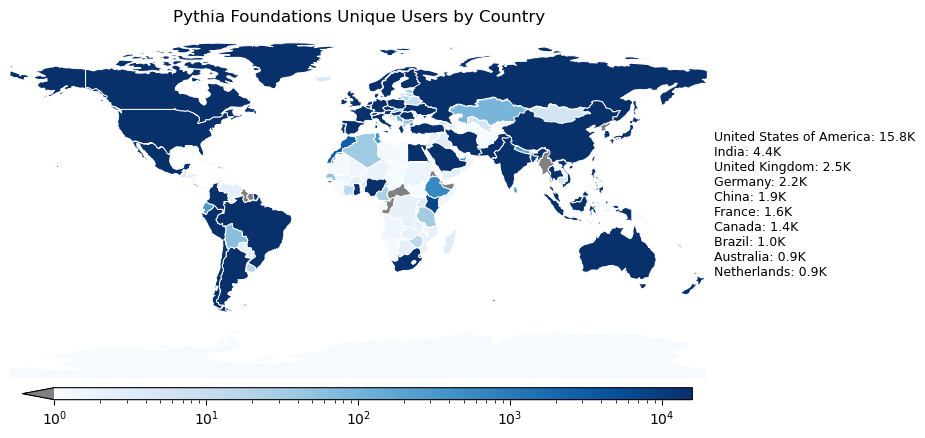
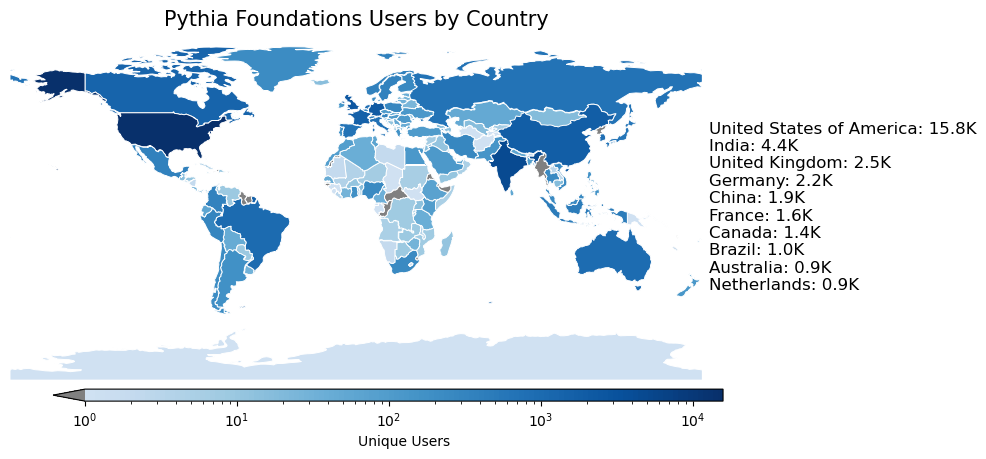
add 3rd plot type and edit fontsizes etc

diff --git a/.github/workflows/get-metrics.py b/.github/workflows/get-metrics.py
@@ -1,8 +1,9 @@
+import datetime
 import json
-import math
 import os
 
 import cartopy
+import matplotlib
 import matplotlib.cm as cm
 import matplotlib.colors as colors
 import matplotlib.pyplot as plt
@@ -56,11 +57,53 @@ def _run_total_users_report(property_id):
 
 def get_total_users(PORTAL_ID, FOUNDATIONS_ID, COOKBOOKS_ID):
     metrics_dict = {}
+    metrics_dict['Now'] = str(datetime.datetime.now())
     metrics_dict['Portal'] = _run_total_users_report(PORTAL_ID)
     metrics_dict['Foundations'] = _run_total_users_report(FOUNDATIONS_ID)
     metrics_dict['Cookbooks'] = _run_total_users_report(COOKBOOKS_ID)
     with open('portal/metrics/user_metrics.json', 'w') as outfile:
         json.dump(metrics_dict, outfile)
+
+
+def _run_active_users_this_year(property_id):
+    current_year = datetime.datetime.now().year
+    start_date = f'{current_year}-01-01'
+
+    request = RunReportRequest(
+        property=f'properties/{property_id}',
+        dimensions=[Dimension(name='date')],
+        metrics=[Metric(name='activeUsers')],
+        date_ranges=[DateRange(start_date=start_date, end_date='today')],
+    )
+    response = client.run_report(request)
+
+    dates = []
+    user_counts = []
+    for row in response.rows:
+        date_str = row.dimension_values[0].value
+        date = datetime.datetime.strptime(date_str, '%Y%m%d')
+        dates.append(date)
+        user_counts.append(int(row.metric_values[0].value))
+
+    return zip(*sorted(zip(dates, user_counts), key=lambda x: x[0]))
+
+
+def plot_projects_this_year(PORTAL_ID, FOUNDATIONS_ID, COOKBOOKS_ID):
+    portal_dates, portal_users = _run_active_users_this_year(PORTAL_ID)
+    foundations_dates, foundations_users = _run_active_users_this_year(FOUNDATIONS_ID)
+    cookbooks_dates, cookbooks_users = _run_active_users_this_year(COOKBOOKS_ID)
+
+    plt.figure(figsize=(10, 5.5))
+    plt.title('Year-to-Date Pythia Active Users', fontsize=15)
+
+    plt.plot(portal_dates, portal_users, color='purple', label='Portal')
+    plt.plot(foundations_dates, foundations_users, color='royalblue', label='Foundations')
+    plt.plot(cookbooks_dates, cookbooks_users, color='indianred', label='Cookbooks')
+
+    plt.legend(fontsize=12, loc='upper right')
+
+    plt.xlabel('Date', fontsize=12)
+    plt.savefig('portal/metrics/thisyear.png', bbox_inches='tight')
 
 
 def _run_top_pages_report(property_id):
@@ -72,52 +115,32 @@ def _run_top_pages_report(property_id):
     )
     response = client.run_report(request)
 
-    page_views = {}
+    views_dict = {}
     for row in response.rows:
         page = row.dimension_values[0].value
         views = int(row.metric_values[0].value)
-        page_views[page] = views
+        views_dict[page] = views
 
-    top_10_pages = sorted(page_views.items(), key=lambda item: item[1], reverse=True)[:10]
-    return {page: views for page, views in top_10_pages}
+    top_pages = sorted(views_dict.items(), key=lambda item: item[1], reverse=True)[:5]
+    pages = [page.split('—')[0] for page, _ in top_pages]
+    views = [views for _, views in top_pages]
+
+    return pages[::-1], views[::-1]
 
 
-def plot_top_pages(portal_id, foundations_id, cookbooks_id):
-    portal_page_views = _run_top_pages_report(portal_id)
-    portal_pages = []
-    portal_sorted = {k: v for k, v in sorted(portal_page_views.items(), key=lambda item: item[1])}
-    portal_views = portal_sorted.values()
-    for key in portal_sorted:
-        newkey = key.split('—')[0]
-        portal_pages.append(newkey)
-
-    foundations_page_views = _run_top_pages_report(foundations_id)
-    foundations_pages = []
-    foundations_sorted = {k: v for k, v in sorted(foundations_page_views.items(), key=lambda item: item[1])}
-    foundations_views = foundations_sorted.values()
-    for key in foundations_sorted:
-        newkey = key.split('—')[0]
-        foundations_pages.append(newkey)
-
-    cookbooks_page_views = _run_top_pages_report(cookbooks_id)
-    cookbooks_pages = []
-    cookbooks_sorted = {k: v for k, v in sorted(cookbooks_page_views.items(), key=lambda item: item[1])}
-    cookbooks_views = cookbooks_sorted.values()
-    for key in cookbooks_page_views:
-        newkey = key.split('—')[0]
-        cookbooks_pages.insert(0, newkey)
+def plot_top_pages(PORTAL_ID, FOUNDATIONS_ID, COOKBOOKS_ID):
+    portal_pages, portal_views = _run_top_pages_report(PORTAL_ID)
+    foundations_pages, foundations_views = _run_top_pages_report(FOUNDATIONS_ID)
+    cookbooks_pages, cookbooks_views = _run_top_pages_report(COOKBOOKS_ID)
 
     pages = cookbooks_pages + foundations_pages + portal_pages
 
-    fig, ax = plt.subplots(figsize=(10, 8))
-    plt.title('All-Time Top Pages')
+    fig, ax = plt.subplots(figsize=(10, 5.5))
+    plt.title('All-Time Top Pages', fontsize=15)
 
-    views_max = int(math.ceil(max(portal_views) / 10000.0)) * 10000
-    ax.set_xlim([0, views_max])
-
-    y = np.arange(10)
-    y2 = np.arange(11, 21)
-    y3 = np.arange(22, 32)
+    y = np.arange(5)
+    y2 = np.arange(6, 11)
+    y3 = np.arange(12, 17)
     y4 = np.append(y, y2)
     y4 = np.append(y4, y3)
 
@@ -125,19 +148,23 @@ def plot_top_pages(portal_id, foundations_id, cookbooks_id):
     bar2 = ax.barh(y2, foundations_views, align='center', label='Foundations', color='royalblue')
     bar3 = ax.barh(y, cookbooks_views, align='center', label='Cookbooks', color='indianred')
 
-    ax.set_yticks(y4, labels=pages)
+    ax.set_yticks(y4, labels=pages, fontsize=12)
 
-    ax.bar_label(bar1, fmt=_format_rounding)
-    ax.bar_label(bar2, fmt=_format_rounding)
-    ax.bar_label(bar3, fmt=_format_rounding)
+    ax.bar_label(bar1, fmt=_format_rounding, padding=5, fontsize=10)
+    ax.bar_label(bar2, fmt=_format_rounding, padding=5, fontsize=10)
+    ax.bar_label(bar3, fmt=_format_rounding, padding=5, fontsize=10)
 
-    plt.legend()
+    ax.set_xscale('log')
+    ax.set_xlim([10, 10**5])
+    ax.set_xlabel('Page Views', fontsize=12)
+
+    plt.legend(fontsize=12, loc='lower right')
     plt.savefig('portal/metrics/toppages.png', bbox_inches='tight')
 
 
-def _run_usersXcountry_report(foundations_id):
+def _run_usersXcountry_report(property_id):
     request = RunReportRequest(
-        property=f'properties/{foundations_id}',
+        property=f'properties/{property_id}',
         dimensions=[Dimension(name='country')],
         metrics=[Metric(name='activeUsers')],
         date_ranges=[DateRange(start_date='2020-03-31', end_date='today')],
@@ -153,8 +180,8 @@ def _run_usersXcountry_report(foundations_id):
     return user_by_country
 
 
-def plot_usersXcountry(foundations_id):
-    users_by_country = _run_usersXcountry_report(foundations_id)
+def plot_usersXcountry(FOUNDATIONS_ID):
+    users_by_country = _run_usersXcountry_report(FOUNDATIONS_ID)
 
     dict_api2cartopy = {
         'Tanzania': 'United Republic of Tanzania',
@@ -178,25 +205,30 @@ def plot_usersXcountry(foundations_id):
 
     fig = plt.figure(figsize=(10, 4))
     ax = plt.axes(projection=cartopy.crs.PlateCarree(), frameon=False)
-    ax.set_title('Pythia Foundations Unique Users by Country')
+    ax.set_title('Pythia Foundations Users by Country', fontsize=15)
 
     shapefile = cartopy.io.shapereader.natural_earth(category='cultural', resolution='110m', name='admin_0_countries')
     reader = cartopy.io.shapereader.Reader(shapefile)
     countries = reader.records()
 
     colormap = plt.get_cmap('Blues')
-    colormap.set_extremes(under='grey')
-    vmax = int(math.ceil(max(users_by_country.values()) / 100.0)) * 100
-    norm = colors.LogNorm(vmin=1, vmax=vmax)
-    mappable = cm.ScalarMappable(norm=norm, cmap=colormap)
+    newcmp = colors.ListedColormap(colormap(np.linspace(0.2, 1, 128)))
+    newcmp.set_extremes(under='grey')
+
+    norm = colors.LogNorm(vmin=1, vmax=max(users_by_country.values()))
+    mappable = cm.ScalarMappable(norm=norm, cmap=newcmp)
 
     for country in countries:
         country_name = country.attributes['SOVEREIGNT']
         if country_name in users_by_country.keys():
-            facecolor = colormap((users_by_country[country_name] / 105))
-
+            facecolor = newcmp(norm(users_by_country[country_name]))
             ax.add_geometries(
-                [country.geometry], cartopy.crs.PlateCarree(), facecolor=facecolor, edgecolor='white', linewidth=0.7
+                [country.geometry],
+                cartopy.crs.PlateCarree(),
+                facecolor=facecolor,
+                edgecolor='white',
+                linewidth=0.7,
+                norm=matplotlib.colors.LogNorm(),
             )
         else:
             ax.add_geometries(
@@ -204,10 +236,11 @@ def plot_usersXcountry(foundations_id):
             )
 
     cax = fig.add_axes([0.1, -0.015, 0.67, 0.03])
-    fig.colorbar(mappable=mappable, cax=cax, spacing='uniform', orientation='horizontal', extend='min')
+    cbar = fig.colorbar(mappable=mappable, cax=cax, spacing='uniform', orientation='horizontal', extend='min')
+    cbar.set_label('Unique Users')
 
     props = dict(boxstyle='round', facecolor='white', edgecolor='white')
-    ax.text(1.01, 0.5, top_10_text, transform=ax.transAxes, fontsize=9, verticalalignment='center', bbox=props)
+    ax.text(1.01, 0.5, top_10_text, transform=ax.transAxes, fontsize=12, verticalalignment='center', bbox=props)
 
     plt.tight_layout()
     plt.savefig('portal/metrics/bycountry.png', bbox_inches='tight')
@@ -215,5 +248,6 @@ def plot_usersXcountry(foundations_id):
 
 if __name__ == '__main__':
     get_total_users(PORTAL_ID, FOUNDATIONS_ID, COOKBOOKS_ID)
+    plot_projects_this_year(PORTAL_ID, FOUNDATIONS_ID, COOKBOOKS_ID)
     plot_top_pages(PORTAL_ID, FOUNDATIONS_ID, COOKBOOKS_ID)
-    plot_usersXcountry(str(FOUNDATIONS_ID))
+    plot_usersXcountry(FOUNDATIONS_ID)

diff --git a/.github/workflows/write-metrics-md.py b/.github/workflows/write-metrics-md.py
@@ -1,16 +1,18 @@
-import datetime
 import json
 
 
-def process_user_data(json_file, top_pages, map, md_file):
+def process_user_data(json_file, top_pages, this_year, map, md_file):
     with open(json_file, 'r') as f:
         user_data = json.load(f)
 
     with open(md_file, 'w') as f:
         f.write('# Metrics \n\n')
-        f.write(f'Last Updated: {datetime.datetime.now()}\n\n')
+        now = user_data['Now']
+        f.write(f'Last Updated: {now}')
+        user_data.pop('Now')
+        f.write('\n\n')
 
-        headers = '| Project | Views |'
+        headers = '| Project | Users |'
         separator = '| ' + ' | '.join(['-----'] * 2) + ' |'
         rows = []
         for key in user_data.keys():
@@ -19,15 +21,17 @@ def process_user_data(json_file, top_pages, map, md_file):
         f.write(table)
         f.write('\n\n')
 
-        f.write(f'![Top Pages]({top_pages})')
-        f.write(f'![Users by Country]({map})')
-        f.write('\n')
+        f.write(f'![Top Pages]({top_pages})\n\n')
+        f.write(f'![Users this Year]({this_year})\n\n')
+        f.write(f'![Users by Country]({map})\n\n')
+
     f.close()
 
 
 if __name__ == '__main__':
     json_file = 'portal/metrics/user_metrics.json'
     top_pages = 'metrics/toppages.png'
+    this_year = 'metrics/thisyear.png'
     map = 'metrics/bycountry.png'
     md_file = 'portal/metrics.md'
-    process_user_data(json_file, top_pages, map, md_file)
+    process_user_data(json_file, top_pages, this_year, map, md_file)

diff --git a/portal/metrics.md b/portal/metrics.md
@@ -1,11 +1,15 @@
 # Metrics
 
-Last Updated: 2024-03-19 09:15:00.008673
+Last Updated: 2024-03-19 15:46:22.786326
 
-| Project | Views |
+| Project | Users |
 | ----- | ----- |
 | Portal | 12.3K |
-| Foundations | 47.0K |
+| Foundations | 47.1K |
 | Cookbooks | 6.2K |
 
-![Top Pages](metrics/toppages.png)![Users by Country](metrics/bycountry.png)
+![Top Pages](metrics/toppages.png)
+
+![Users this Year](metrics/thisyear.png)
+
+![Users by Country](metrics/bycountry.png)
